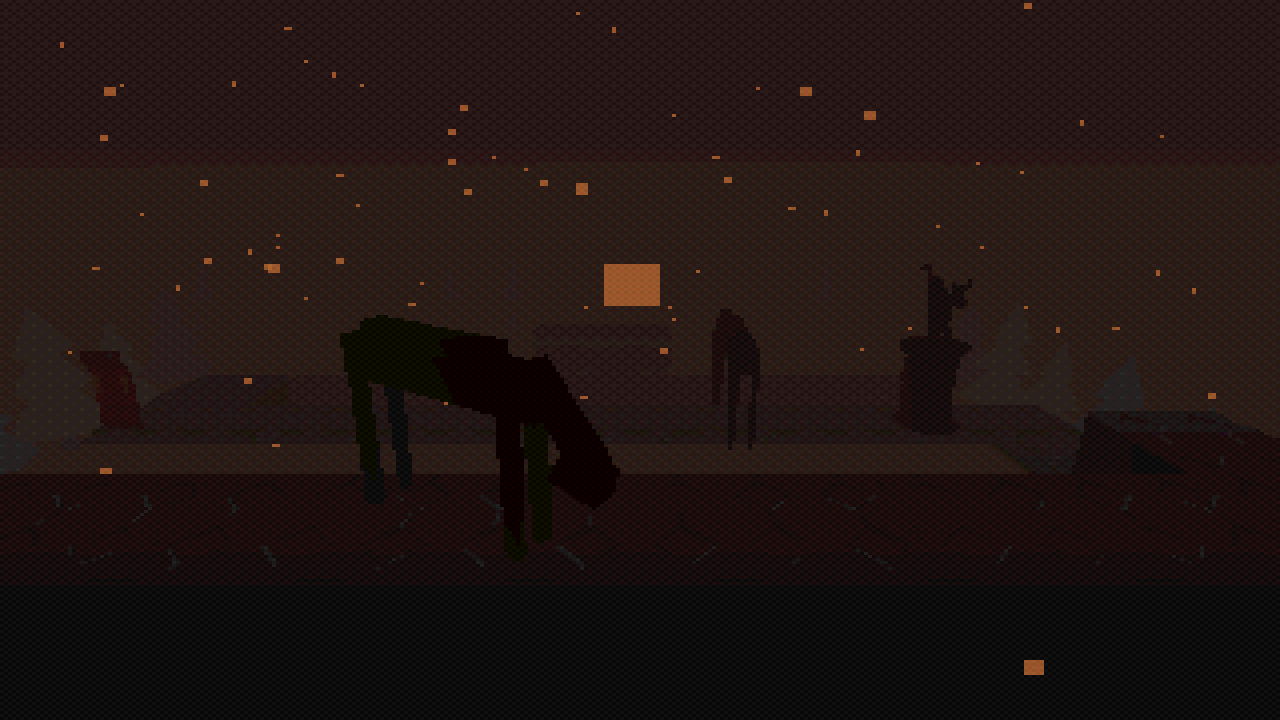
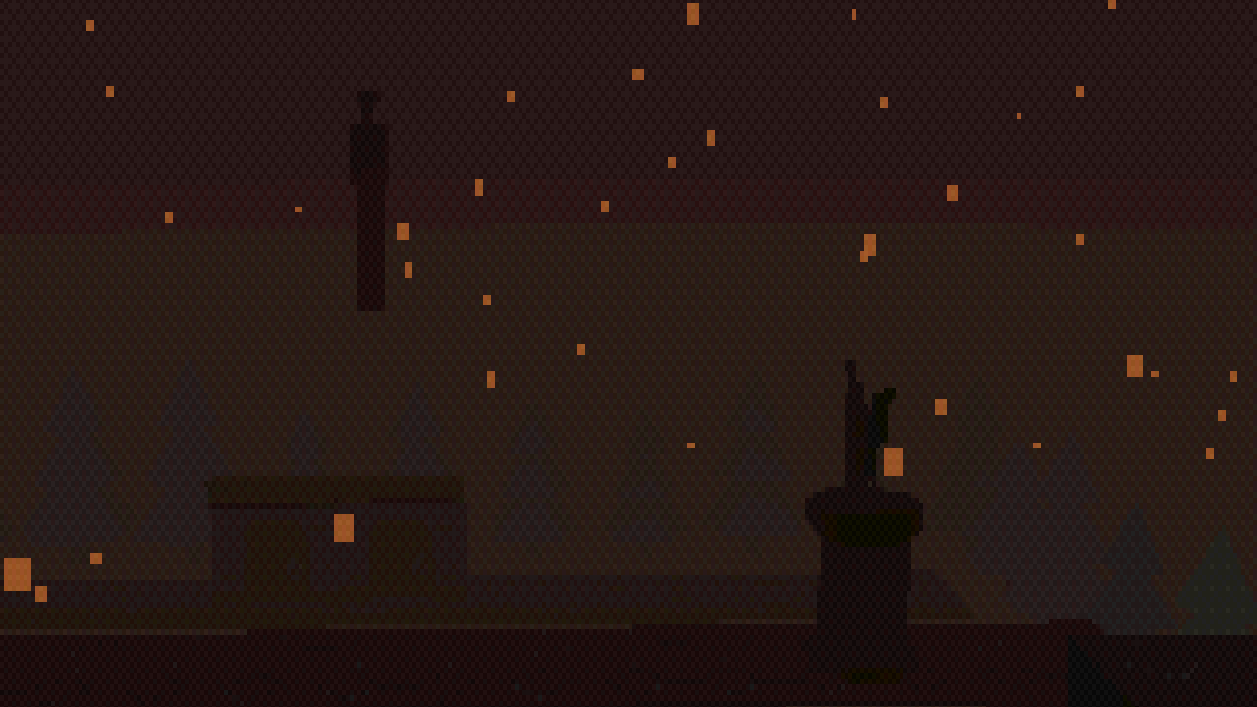
fix(zone): elevate descent watcher onto the far cliff — pd-1 reads
Round 1 fixed PD-1's mechanics but left the Watcher invisible: anchors
had no height concept (he rendered feet-at-y=0, ~4.5m below the band-3
vista ledge, occluded + fog-dissolved → 0 pixel delta), and off-grid
south sits ~22m away where the vista's open fog (far ≈32m) fully
dissolves a black silhouette in the gorge's uniform palette.

- Add an optional per-anchor elevation additively: WatcherAnchor =
  [row,col] | [row,col,elevM] (2-tuples unchanged, elev 0). Thread it
  through DreadDirector (min-range still reads row/col only) and
  WatcherPresence.worldPos/View (feet at the anchor's ground height).
- Move PD-1's anchor [1,-8] → [9,5,5.0]: a lethal gorge-void cell
  (unreachable) across the void, ~16m from the vista ledge (≥16m from
  every vista cell → min-range rule kept), elevated 5m so the 3m
  silhouette breaks the horizon against the sky.
- No zone/vista fog constants changed; the ~4s manifest overlaps the
  vista's fog-open peak as the player walks off the low-fog ledge cells.
- Extend the anchor regression (unreachable + elevated) + a worldPos
  elevation unit test. 685/685, tsc + build clean.

Real-play proof (walk in from gate-fields, not dev-forced): vista fires,
manifest at [9,5,5]; GL readback present-vs-dismissed = 3644 changed px
(was 0). Shots: gv-task12-watcher-visible.png + re-shot gv-clip-chasm{,-916}.

diff --git a/src/content/__tests__/zones.test.ts b/src/content/__tests__/zones.test.ts
@@ -322,6 +322,33 @@ describe('Pilgrim\'s Descent height layer (Task 12)', () => {
       }
     }
   });
+
+  it('the PD-1 Watcher anchor is unreachable and elevated onto the far cliff', () => {
+    // Round-2 visibility fix: the "across it, the watcher" anchor must (a) be a
+    // place the player can never STAND — off-grid, or a gorge-void `~` / border
+    // `#` cell (a void cell is a lethal fall → reset, so it is unreachable) — and
+    // (b) carry an ELEVATION that stands it near/above the band-3 vista ledge
+    // (4.5 m), so its 3 m silhouette breaks the horizon against the sky instead of
+    // sitting on the y=0 gorge floor (round 1: ~4.5 m below the ledge sill →
+    // occluded + fog-dissolved, zero pixel delta).
+    const rows = def.grid.length;
+    const cols = def.grid[0].length;
+    const LEDGE_M = 4.5; // band 3 (heightGrid digit 3 × 1.5 m/level)
+    for (const anchor of def.watcherAnchors!) {
+      const [r, c, elevM] = anchor;
+      const offGrid = r < 0 || r >= rows || c < 0 || c >= cols;
+      const cell = offGrid ? undefined : def.grid[r][c];
+      const unreachable = offGrid || cell === '~' || cell === '#';
+      expect(
+        unreachable,
+        `Watcher anchor ${String(anchor)} must be unreachable (off-grid, void '~', or wall '#') — got cell '${cell}'`,
+      ).toBe(true);
+      expect(
+        elevM ?? 0,
+        `Watcher anchor ${String(anchor)} must carry an elevation ≥ ~the vista ledge (${LEDGE_M} m)`,
+      ).toBeGreaterThanOrEqual(LEDGE_M);
+    }
+  });
 });
 
 describe.each(entries)('zone %s', (id, def) => {

diff --git a/src/entities/WatcherPresence.ts b/src/entities/WatcherPresence.ts
@@ -20,7 +20,7 @@ import { BoxGeometry, Color, Group, Mesh, MeshStandardMaterial } from 'three';
 import type { Material } from 'three';
 import { TUNING } from '../content/tuning';
 import { patchMaterial } from '../ps1/patchMaterial';
-import type { GridPos } from '../world/zoneDef';
+import type { WatcherAnchor } from '../world/zoneDef';
 import type { EntityView } from './animator';
 
 const W = TUNING.greaterVael.watcher;
@@ -56,8 +56,8 @@ export class WatcherPresence {
   /** The ACTIVE zone's anchors — re-scoped per zone entry (setAnchors). The
    *  run-scoped presence spans the drop, but a reposition must never wander to
    *  another zone's anchor, so the set it cycles is always the live zone's. */
-  private anchors: GridPos[];
-  private cur: GridPos;
+  private anchors: WatcherAnchor[];
+  private cur: WatcherAnchor;
   private visibleMs = 0;
   private observed = false;
   private sightings: number;
@@ -69,7 +69,7 @@ export class WatcherPresence {
    *   respected and clamped to the per-drop budget.
    */
   constructor(
-    anchors: GridPos[],
+    anchors: WatcherAnchor[],
     private readonly cellM: number,
     seedSightings = 0,
   ) {
@@ -82,7 +82,7 @@ export class WatcherPresence {
    *  is run-scoped for its sighting budget, but the anchor set it may reposition
    *  among is the ACTIVE zone's only — never a cross-zone flatten. Resets the
    *  reposition index; a live manifest is left in place until it recedes. */
-  setAnchors(anchors: GridPos[]): void {
+  setAnchors(anchors: WatcherAnchor[]): void {
     this.anchors = anchors;
     this.idx = 0;
   }
@@ -102,14 +102,18 @@ export class WatcherPresence {
   }
 
   /** The anchor it currently stands on. */
-  get cell(): GridPos {
+  get cell(): WatcherAnchor {
     return this.cur;
   }
 
-  /** World-space centre of the current anchor (a 3 m-tall silhouette's mid-body). */
+  /** World-space centre of the current anchor (a 3 m-tall silhouette's mid-body).
+   *  `y` rides the anchor's optional elevation (index 2, the feet's ground height
+   *  for an off-grid far-cliff backdrop) so the frustum sphere tracks the raised
+   *  column; a 2-tuple anchor keeps its y at mid-body over y=0 (elevation 0). */
   worldPos(): Vec3Like {
     const [row, col] = this.cur;
-    return { x: (col + 0.5) * this.cellM, y: W.heightM * 0.5, z: (row + 0.5) * this.cellM };
+    const elevM = this.cur[2] ?? 0;
+    return { x: (col + 0.5) * this.cellM, y: elevM + W.heightM * 0.5, z: (row + 0.5) * this.cellM };
   }
 
   /**
@@ -117,7 +121,7 @@ export class WatcherPresence {
    * sighting (clamped to the budget) and stands FROZEN. `observed` seeds whether
    * the anchor is currently in view; `update` refreshes it from the live frustum.
    */
-  manifest(anchor: GridPos, observed = false): void {
+  manifest(anchor: WatcherAnchor, observed = false): void {
     this.cur = anchor;
     const i = this.anchors.findIndex(([r, c]) => r === anchor[0] && c === anchor[1]);
     this.idx = i < 0 ? 0 : i;
@@ -237,7 +241,10 @@ export class WatcherView implements EntityView {
     this.root.visible = present;
     if (!present) return;
     const wp = this.watcher.worldPos();
-    this.root.position.set(wp.x, 0, wp.z);
+    // The figure is modelled feet-at-0; `worldPos.y` is the column's MID-body, so
+    // the feet sit at `y - heightM/2` = the anchor's ground elevation (0 for a
+    // ground-level 2-tuple anchor, the far-cliff top for an elevated one).
+    this.root.position.set(wp.x, wp.y - W.heightM * 0.5, wp.z);
   }
 
   dispose(): void {

diff --git a/src/content/zones/pilgrimsDescent.ts b/src/content/zones/pilgrimsDescent.ts
@@ -120,11 +120,20 @@ export const PILGRIMS_DESCENT: ZoneDef = {
     // the false read is on the set-dressing across the gorge only.
     { id: 'PD-2', zone: 'pilgrims-descent', trigger: { on: 'approach', at: [7, 10], withinM: 3 }, gimmick: 'desaturation', oneLine: 'A banner burns where you can’t reach; yours is safe.' },
   ],
-  // Far cliff across the chasm: far, elevated, unreachable — off-grid backdrop
-  // (col -8, worldPos x=-15 → ≥18 m from every vista trigger cell [1,1]..[1,4]),
-  // PD-1's manifest anchor. Must sit beyond watcher.sightingRangeMinM (16 m) or
-  // the DreadDirector voids the sighting (rule 10) — [1,-3] was only 8 m, so the
-  // Watcher manifested-and-receded before a single visible frame. Kept KEYED BY
-  // ZONE by the run-scoped DreadDirector.
-  watcherAnchors: [[1, -8]],
+  // PD-1's "across it, the watcher" anchor — a far figure ACROSS the chasm void.
+  // [9,5] is a `~` gorge-void cell: the player can never stand there (stepping in
+  // is the lethal fall → ember loss + reset), so it is unreachable, and it sits
+  // across the void the top-ledge vista looks over. The 3rd tuple element is the
+  // anchor's ELEVATION in metres (5.0 m): a void cell's heightGrid is 0, so the
+  // anchor carries its own height — the Watcher stands on a far-cliff top at ~the
+  // band-3 ledge height (4.5 m), his 3 m silhouette BREAKING THE HORIZON against
+  // the sky, instead of the y=0 gorge floor (round 1 left him ~4.5 m below the
+  // ledge sill → occluded + fog-dissolved). Distance matters for visibility: at
+  // 22 m the vista's open fog (far ≈32 m) fully dissolves the black silhouette
+  // (0 pixel delta); [9,5] is ~16 m from the vista ledge — far enough that the
+  // DreadDirector's min-range rule (10) keeps the sighting (fire is from the
+  // arrival cell [1,1], 17 m away), close enough that the vista window reveals a
+  // clear column (≥16 m from EVERY vista trigger cell [1,1]..[1,4]: 16.1 m from
+  // [1,3]/[1,4], 17.9 m from [1,1]). Kept KEYED BY ZONE by the run-scoped director.
+  watcherAnchors: [[9, 5, 5.0]],
 };

diff --git a/src/entities/__tests__/watcherPresence.test.ts b/src/entities/__tests__/watcherPresence.test.ts
@@ -105,6 +105,25 @@ describe('WatcherPresence — the thing at the fog-line', () => {
     expect(w.present).toBe(false);
   });
 
+  it('lifts worldPos.y by an elevated anchor\'s ground height (off-grid far cliff)', () => {
+    // Round-2 PD-1 fix: an off-grid backdrop anchor carries its own elevation
+    // (tuple index 2) so the Watcher stands on the far cliff-top, not the y=0
+    // gorge floor. worldPos.y is the 3 m column's MID-body, so it reads
+    // elevM + heightM/2; a plain 2-tuple anchor keeps its feet at 0.
+    const elevM = 6;
+    const w = new WatcherPresence([[12, 4, elevM]], CELL, 0);
+    w.manifest([12, 4, elevM]);
+    const raised = w.worldPos();
+    expect(raised.y).toBeCloseTo(elevM + W.heightM * 0.5);
+    // The x/z mapping is unchanged by the elevation.
+    expect(raised.x).toBeCloseTo((4 + 0.5) * CELL);
+    expect(raised.z).toBeCloseTo((12 + 0.5) * CELL);
+
+    const ground = new WatcherPresence(ANCHORS, CELL, 0);
+    ground.manifest(ANCHORS[0]);
+    expect(ground.worldPos().y).toBeCloseTo(W.heightM * 0.5); // feet at 0
+  });
+
   it('auto-recedes after maxVisibleSec, even observed and far', () => {
     const w = new WatcherPresence(ANCHORS, CELL, 0);
     w.manifest(ANCHORS[0]);

diff --git a/src/world/zoneDef.ts b/src/world/zoneDef.ts
@@ -22,6 +22,16 @@ export type TileKind = 'wall' | 'floor' | 'void';
 /** Grid coordinate as [row, col] into `ZoneDef.grid`. */
 export type GridPos = [number, number];
 
+/** A Watcher sighting position: `[row, col]` (on the ground, y=0) or
+ *  `[row, col, elevM]` for an OFF-GRID backdrop that stands elevated on a far
+ *  cliff-top rather than the gorge floor. `elevM` is the anchor's ground
+ *  elevation in metres (the Watcher's feet); absent ⇒ 0. An off-grid anchor has
+ *  no `heightGrid` cell to read a height from, so PD-1's "across the chasm"
+ *  Watcher carries its own elevation to break the vista-ledge horizon. Existing
+ *  2-tuple anchors are unchanged (elevation 0). The `[row, col]` prefix still
+ *  drives every distance/cycle check (they read indices 0 and 1). */
+export type WatcherAnchor = [number, number] | [number, number, number];
+
 /** A static decoration/mesh placed on the grid. */
 export interface Prop {
   kind: string;
@@ -261,8 +271,9 @@ export interface ZoneDef {
   exteriorSky?: ExteriorSky;
   /** Authored scare beats the DreadDirector may fire in this zone. */
   scares?: ScareBeat[];
-  /** Watcher sighting positions (may be off-grid backdrop coordinates). */
-  watcherAnchors?: GridPos[];
+  /** Watcher sighting positions (may be off-grid backdrop coordinates, and may
+   *  carry an optional elevation — see WatcherAnchor). */
+  watcherAnchors?: WatcherAnchor[];
   /** The Hag-of-the-Fog-Line threshold for this zone, if any. */
   hagThreshold?: HagThresholdDef;
   ngPlus?: NgPlusVariant;

diff --git a/src/engine/DreadDirector.ts b/src/engine/DreadDirector.ts
@@ -34,7 +34,7 @@
  */
 import { TUNING } from '../content/tuning';
 import type { ZoneId } from '../content/types';
-import type { GridPos, HagThresholdDef, ScareBeat } from '../world/zoneDef';
+import type { GridPos, HagThresholdDef, ScareBeat, WatcherAnchor } from '../world/zoneDef';
 
 const D = TUNING.greaterVael.dread;
 const W = TUNING.greaterVael.watcher;
@@ -77,7 +77,7 @@ const SCREEN_GIMMICKS: ReadonlySet<string> = new Set<ScreenGimmick>([
 export type ScareActivation =
   | { kind: ScreenGimmick; beatId: string; oneLine: string; everSeen: boolean }
   | { kind: 'pure-visual'; beatId: string; oneLine: string; everSeen: boolean }
-  | { kind: 'watcher'; anchor: GridPos; beatId?: string }
+  | { kind: 'watcher'; anchor: WatcherAnchor; beatId?: string }
   | { kind: 'hag-glimpse'; beatId?: string }; // beatId absent ⇒ a threshold glimpse
 
 /** Distance in meters between two grid cells (2 m grid). */
@@ -111,7 +111,7 @@ export class DreadDirector {
     /** Watcher anchors KEYED BY ZONE (T5 review): one run-scoped director spans
      *  every exterior zone, so a beat's manifest anchor must come from the beat's
      *  OWN zone — never another zone's flattened in. */
-    private readonly anchorsByZone: Partial<Record<ZoneId, GridPos[]>>,
+    private readonly anchorsByZone: Partial<Record<ZoneId, WatcherAnchor[]>>,
     private readonly hag: HagThresholdDef | undefined,
     state: { glitchSeen: string[]; watcherSightings: number },
     private readonly rng: () => number,
@@ -298,7 +298,9 @@ export class DreadDirector {
     // (its cycle reads `sightings - 1`); roll it back if the anchor is too close.
     this.sightings += 1;
     const anchor = this.pickAnchor(beat);
-    if (cellDistM(playerCell, anchor) < W.sightingRangeMinM) {
+    // The range rule is horizontal only — the anchor's optional elevation (index
+    // 2) never shortens the sighting distance, so cellDistM reads the [row,col].
+    if (cellDistM(playerCell, [anchor[0], anchor[1]]) < W.sightingRangeMinM) {
       this.sightings -= 1; // void sighting — never charged, never advances the cycle
       return null;
     }
@@ -314,7 +316,7 @@ export class DreadDirector {
 
   /** Resolve the Watcher's manifest anchor for a beat — from the beat's OWN
    *  zone's anchors only (never another zone's; T5 review). */
-  private pickAnchor(beat: ScareBeat): GridPos {
+  private pickAnchor(beat: ScareBeat): WatcherAnchor {
     const zoneAnchors = this.anchorsByZone[beat.zone] ?? [];
     if (zoneAnchors.length > 0) {
       // Cycle this zone's authored anchors so successive sightings vary position.

diff --git a/src/main.ts b/src/main.ts
@@ -49,7 +49,7 @@ import { dialogueSequence } from './content/dialogue';
 import type { BuiltZone, PlacedDoor } from './world/ZoneBuilder';
 import { ZoneManager } from './world/ZoneManager';
 import { kickOpen, takeItem } from './world/mechanics';
-import type { GridPos, HagThresholdDef, ScareBeat, ZoneDef } from './world/zoneDef';
+import type { HagThresholdDef, ScareBeat, WatcherAnchor, ZoneDef } from './world/zoneDef';
 import { canPass, doorEntry, doorSpan, lockFlag, pairedDoor } from './world/zoneGraph';
 import { VistaDirector } from './world/vista';
 import { buildDragon, disposeDragon } from './world/dragon';
@@ -218,11 +218,11 @@ function mulberry32(seed: number): () => number {
  *  so an off-screen reposition can never wander into another zone's anchor. */
 function exteriorScareData(): {
   scares: ScareBeat[];
-  anchorsByZone: Partial<Record<ZoneId, GridPos[]>>;
+  anchorsByZone: Partial<Record<ZoneId, WatcherAnchor[]>>;
   hag: HagThresholdDef | undefined;
 } {
   const scares: ScareBeat[] = [];
-  const anchorsByZone: Partial<Record<ZoneId, GridPos[]>> = {};
+  const anchorsByZone: Partial<Record<ZoneId, WatcherAnchor[]>> = {};
   let hag: HagThresholdDef | undefined;
   const defs: ZoneDef[] = Object.values(ZONES).filter((d): d is ZoneDef => d !== undefined);
   for (const def of defs) {